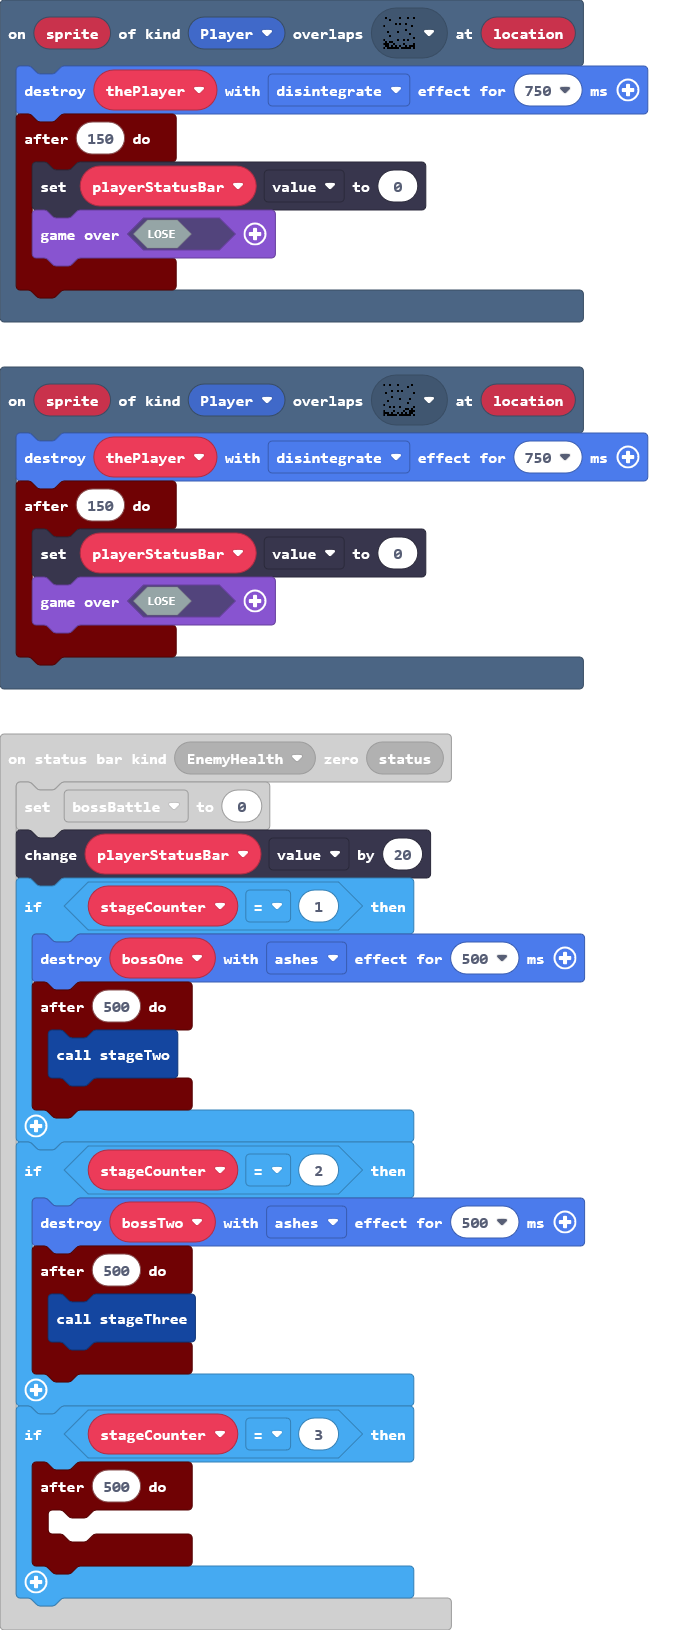
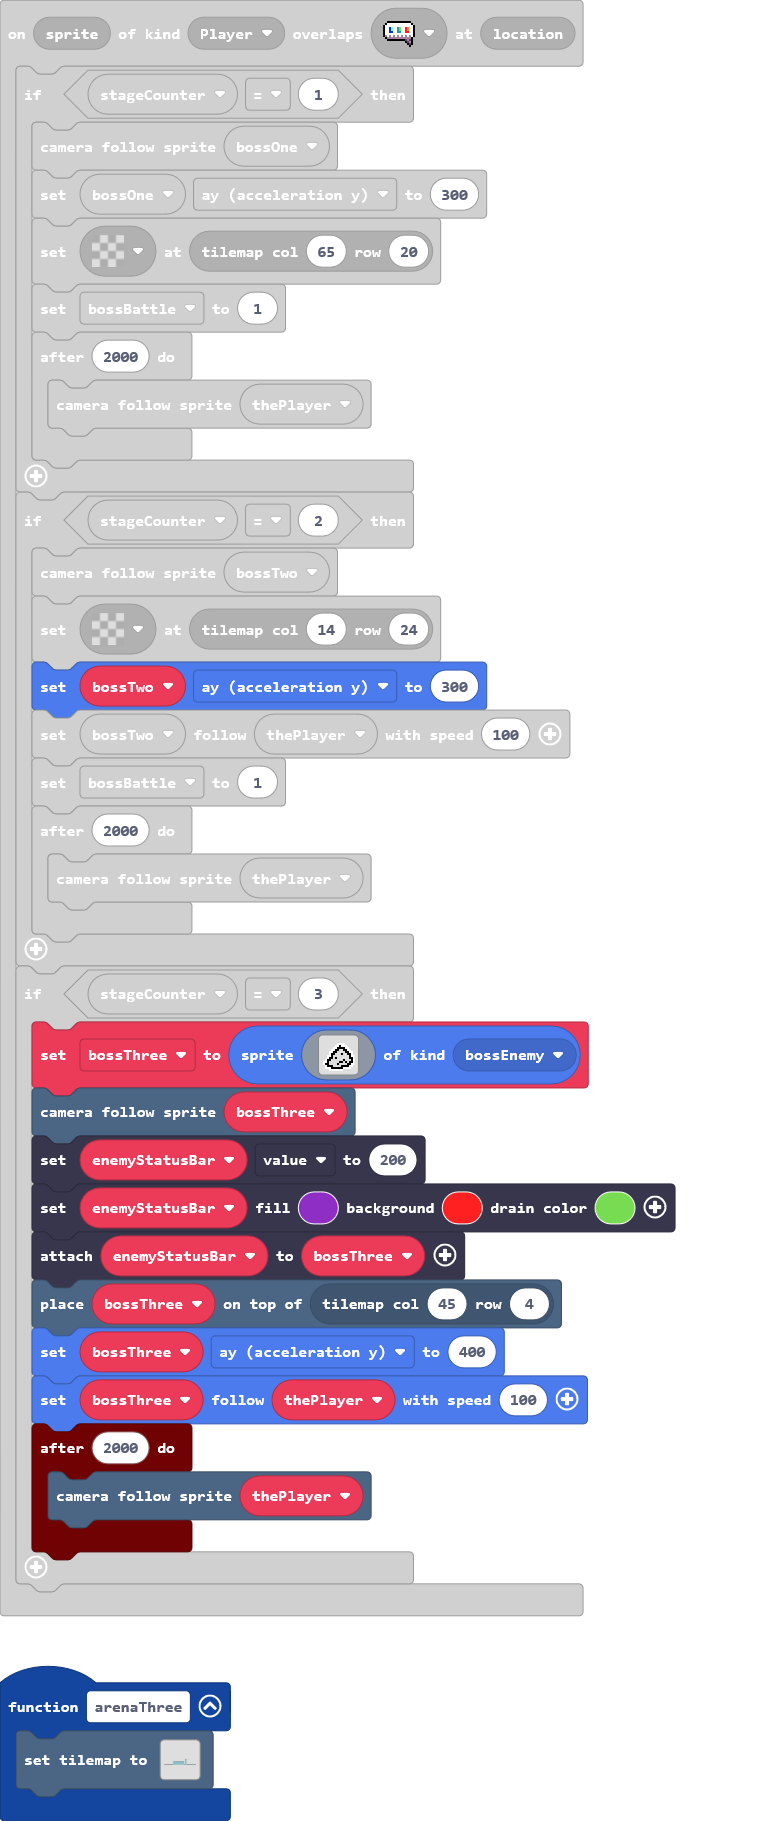
Update main.blocks, main.ts, tilemap.g.jres, tilemap.g.ts

diff --git a/tilemap.g.ts b/tilemap.g.ts
@@ -92,6 +92,8 @@ namespace myTiles {
     export const tile44 = image.ofBuffer(hex``);
     //% fixedInstance jres blockIdentity=images._tile
     export const tile45 = image.ofBuffer(hex``);
+    //% fixedInstance jres blockIdentity=images._tile
+    export const tile46 = image.ofBuffer(hex``);
 
     helpers._registerFactory("tilemap", function(name: string) {
         switch(helpers.stringTrim(name)) {
@@ -284,8 +286,60 @@ namespace myTiles {
 .............................................22222.................................................2
 2222222222222222222222222222222222222222222222222222222222222222222222222222222222222222222222222222
 `, [myTiles.transparency16,myTiles.tile2,myTiles.tile3,myTiles.tile6,myTiles.tile11,myTiles.tile12,myTiles.tile13,myTiles.tile14,myTiles.tile15,myTiles.tile16,myTiles.tile33,myTiles.tile34,myTiles.tile35,myTiles.tile36,myTiles.tile37,myTiles.tile38,myTiles.tile39,myTiles.tile40,myTiles.tile41,myTiles.tile42,myTiles.tile43], TileScale.Sixteen);
+            case "level9":
+            case "level9":return tiles.createTilemap(hex`1000100000000000000000000000000000000000000000000000000000000000000000000000000000000000000000000000000000000000000000000000000000000000000000000000000000000000000000000000000000000000000000000000000000000000000000000000000000000000000000000000000000000000000000000000000000000000000000000000000000000000000000000000000000000000000000000000000000000000000000000000000000000000000000000000000000000000000000000000000000000000000000000000000000000000000000000000000000000000000000000000000000000000000000000000000000000000`, img`
+. . . . . . . . . . . . . . . . 
+. . . . . . . . . . . . . . . . 
+. . . . . . . . . . . . . . . . 
+. . . . . . . . . . . . . . . . 
+. . . . . . . . . . . . . . . . 
+. . . . . . . . . . . . . . . . 
+. . . . . . . . . . . . . . . . 
+. . . . . . . . . . . . . . . . 
+. . . . . . . . . . . . . . . . 
+. . . . . . . . . . . . . . . . 
+. . . . . . . . . . . . . . . . 
+. . . . . . . . . . . . . . . . 
+. . . . . . . . . . . . . . . . 
+. . . . . . . . . . . . . . . . 
+. . . . . . . . . . . . . . . . 
+. . . . . . . . . . . . . . . . 
+`, [myTiles.transparency16], TileScale.Sixteen);
+            case "level10":
[1 lines of base64/hex data omitted]
+..................................................................2.................................
+..................................................................2.................................
+..................................................................2.................................
+..................................................................2.................................
+..................................................................2.................................
+..................................................................2.................................
+..................................................................2.................................
+..................................................................2.................................
+..................................................................2.................................
+..................................................................2.................................
+..................................................................2.................................
+..................................................................2.................................
+....................................................................................................
+..................................................................2222...222........................
+..................................................................2222..............................
+..................................................................2222..............................
+..................................................................2222..............................
+..................................................................2222..............................
+..................................................................2222..............................
+..................................................................2222..............................
+.............................2222222222222222222222222222222222...2222..............................
+.............................2222222222222222222222222222222222...2222..............................
+.............................2222222222222222222222222222222222...2222..............................
+.............................2222222222222222222222222222222222...2222..............................
+.............................2222222222222222222222222222222222...2222..............................
+.............................2222222222222222222222222222222222...2222..............................
+.............................2222222222222222222222222222222222...2222..............................
+.............................2222222222222222222222222222222222...2222..............................
+.............................2222222222222222222222222222222222...2222..............................
+.............................2222222222222222222222222222222222...2222..............................
+`, [myTiles.transparency16,myTiles.tile7,myTiles.tile34,myTiles.tile35,myTiles.tile36,myTiles.tile37,myTiles.tile38,myTiles.tile39,myTiles.tile40,myTiles.tile44,myTiles.tile45,myTiles.tile46,myTiles.tile10], TileScale.Sixteen);
             case "level5":
[2 lines of base64/hex data omitted]
 ....................................................................................................
 ....................................................................................................
 ....................................................................................................
@@ -299,24 +353,24 @@ namespace myTiles {
 ....................................................................................................
 ....................................................................................................
 ....................................................................................................
-....................................................................................................
-....................................................................................................
-....................................................................................................
-....................................................................................................
-....................................................................................................
-...............2222.....2222........................................................................
-....................................................................................................
-222222....22222.....................................................................................
-.....2..............................................................................................
-.....2..............................................................................................
-.....2..............................................................................................
-.....2..............................................................................................
-.....2..............................................................................................
-.....2..............................................................................................
-.....2..............................................................................................
-.....2..............................................................................................
-.....2..............................................................................................
-`, [myTiles.transparency16,myTiles.tile12,myTiles.tile14,myTiles.tile15,myTiles.tile16,myTiles.tile34,myTiles.tile35,myTiles.tile36,myTiles.tile37,myTiles.tile38,myTiles.tile39,myTiles.tile40,myTiles.tile41,myTiles.tile44,myTiles.tile45], TileScale.Sixteen);
+..................................................................2222...222........................
+..................................................................2222..............................
+..................................................................2222..............................
+.......................................222222...............222...2222..............................
+..................................................................2222..............................
+...............2222.....222222......................222222........2222..............................
+...............2..2.....2....2....................................2222..............................
+222222....222222..2.....2....2....22222....22222..................2222..............................
+.....2....2.......2.....2....2....................................2222..............................
+.....2....2.......2.....2....2....................................2222..............................
+.....2....2.......2.....2....2....................................2222..............................
+.....2....2.......2.....2....2....................................2222..............................
+.....2....2.......2.....2....2....................................2222..............................
+.....2....2.......2.....2....2....................................2222..............................
+.....2....2.......2.....2....2....................................2222..............................
+.....2....2.......2.....2....2....................................2222..............................
+.....2....222222222.....222222....................................2222..............................
+`, [myTiles.transparency16,myTiles.tile12,myTiles.tile14,myTiles.tile15,myTiles.tile16,myTiles.tile34,myTiles.tile35,myTiles.tile36,myTiles.tile37,myTiles.tile38,myTiles.tile39,myTiles.tile40,myTiles.tile41,myTiles.tile44,myTiles.tile45,myTiles.tile3,myTiles.tile46,myTiles.tile6], TileScale.Sixteen);
         }
         return null;
     })
@@ -414,6 +468,8 @@ namespace myTiles {
             case "tile44":return tile44;
             case "myTile43":
             case "tile45":return tile45;
+            case "myTile44":
+            case "tile46":return tile46;
         }
         return null;
     })

diff --git a/main.ts b/main.ts
@@ -609,7 +609,7 @@ scene.onOverlapTile(SpriteKind.Player, assets.tile`myTile8`, function (sprite, l
     if (stageCounter == 2) {
         scene.cameraFollowSprite(bossTwo)
         tiles.setTileAt(tiles.getTileLocation(14, 24), assets.tile`transparency16`)
-        bossOne.ay = 300
+        bossTwo.ay = 300
         bossTwo.follow(thePlayer, 100)
         bossBattle = 1
         timer.after(2000, function () {
@@ -617,7 +617,34 @@ scene.onOverlapTile(SpriteKind.Player, assets.tile`myTile8`, function (sprite, l
         })
     }
     if (stageCounter == 3) {
-    	
+        bossThree = sprites.create(img`
+            . . . . . . . . . . . . . . . . 
+            . . . . . . . . . . . . . . . . 
+            . . . . . . . 1 1 1 1 . . . . . 
+            . . . . . . 1 1 f 1 1 1 . . . . 
+            . . . . . 1 1 f f f f 1 1 . . . 
+            . . . . 1 1 f f . . f f 1 1 . . 
+            . . . 1 1 f f . . . . f f 1 1 . 
+            . . . 1 f f . . . f . . f f 1 . 
+            . . 1 1 f . . . . . . . . f 1 1 
+            . . 1 f f . f . . . . . . f f 1 
+            . 1 f f . . . . . . f . . . f 1 
+            1 1 f . . . . . f f . f . f f 1 
+            1 f f . . . . f . . . . f f 1 1 
+            . 1 f f f . . . . f f f f 1 1 . 
+            . 1 1 1 f f f f f f 1 1 1 1 . . 
+            . . . 1 1 1 1 1 1 1 . . . . . . 
+            `, SpriteKind.bossEnemy)
+        scene.cameraFollowSprite(bossThree)
+        enemyStatusBar.value = 200
+        enemyStatusBar.setColor(10, 2, 7)
+        enemyStatusBar.attachToSprite(bossThree)
+        tiles.placeOnTile(bossThree, tiles.getTileLocation(45, 4))
+        bossThree.ay = 400
+        bossThree.follow(thePlayer, 100)
+        timer.after(2000, function () {
+            scene.cameraFollowSprite(thePlayer)
+        })
     }
 })
 scene.onOverlapTile(SpriteKind.Player, assets.tile`myTile43`, function (sprite, location) {
@@ -627,6 +654,9 @@ scene.onOverlapTile(SpriteKind.Player, assets.tile`myTile43`, function (sprite, 
         game.over(false)
     })
 })
+function arenaThree () {
+    tiles.setTilemap(tilemap`level10`)
+}
 controller.combos.attachCombo("l+b", function () {
     playerInvincibility = 1
     thePlayer.vx = -300
@@ -690,6 +720,7 @@ let rightEnemy = 0
 let leftEnemy = 0
 let jumpEnemy = 0
 let wallJump = 0
+let bossThree: Sprite = null
 let bossOne: Sprite = null
 let bossBattle = 0
 let bossTwo: Sprite = null
